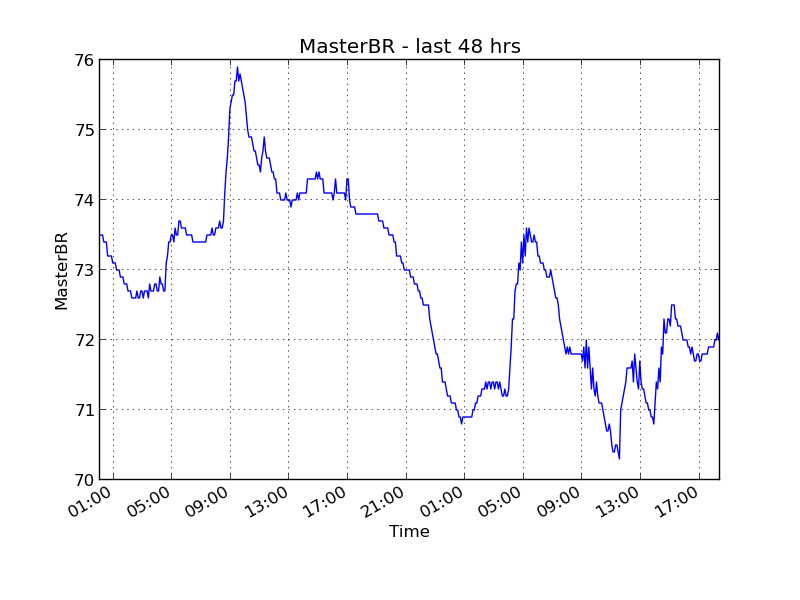
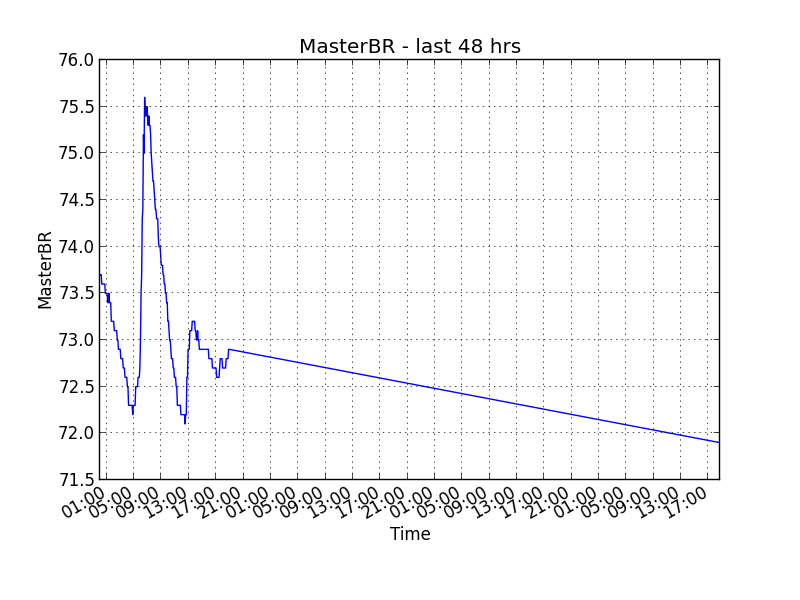
Minor updates

diff --git a/makemultiplot.py b/makemultiplot.py
@@ -13,7 +13,7 @@ import sqlite3 as lite
 import sys
 
 # Open the data base 
-con = lite.connect('/home/sam/Sensorboard/sensordb')
+con = lite.connect('/home/pi/Sensorboard/sensordb')
 
 # Setup the date label formatting
 hours = mdates.HourLocator(interval=4)
@@ -25,7 +25,7 @@ with con:
     con.row_factory = lite.Row
  
     # Get  data from the past 2 days
-    delta = datetime.timedelta(2)
+    delta = datetime.timedelta(4)
     past = datetime.datetime.now() - delta
 
     symbol = past.strftime("%Y-%m-%d")
@@ -41,6 +41,7 @@ with con:
     # now try to make multiple plots
 
     plots = ["MasterBR", "Outside", "Basement", "Humidity"]
+    #plots = ["MasterBR"]
 
     for plot in plots:
 
@@ -67,6 +68,6 @@ with con:
  
 
         plt.grid('on')
-        plt.savefig('/home/sam/Sensorboard/static/'+plot+'.png')
+        plt.savefig('/home/pi/Sensorboard/static/'+plot+'.png')
 
 

diff --git a/basestation.py b/basestation.py
@@ -23,7 +23,7 @@ import serial, time, os, sys
 import sqlite3 as lite
 
 
-ser = serial.Serial(port='/dev/ttyUSB1',timeout=2) 
+ser = serial.Serial(port='/dev/ttyUSB0',timeout=2) 
 
 data = {}
 
@@ -45,6 +45,7 @@ while True:
         ser.flushInput()
         ser.write("#")
         s=ser.readline()
+#        print "Board 1:", len(s)
         if len(s) > 50:
             msgComplete = True
     
@@ -71,6 +72,7 @@ while True:
         ser.flushInput()
         ser.write("#")
         s=ser.readline()
+#        print "Board 2:", len(s)
         if len(s) > 50:
             msgComplete = True
             
